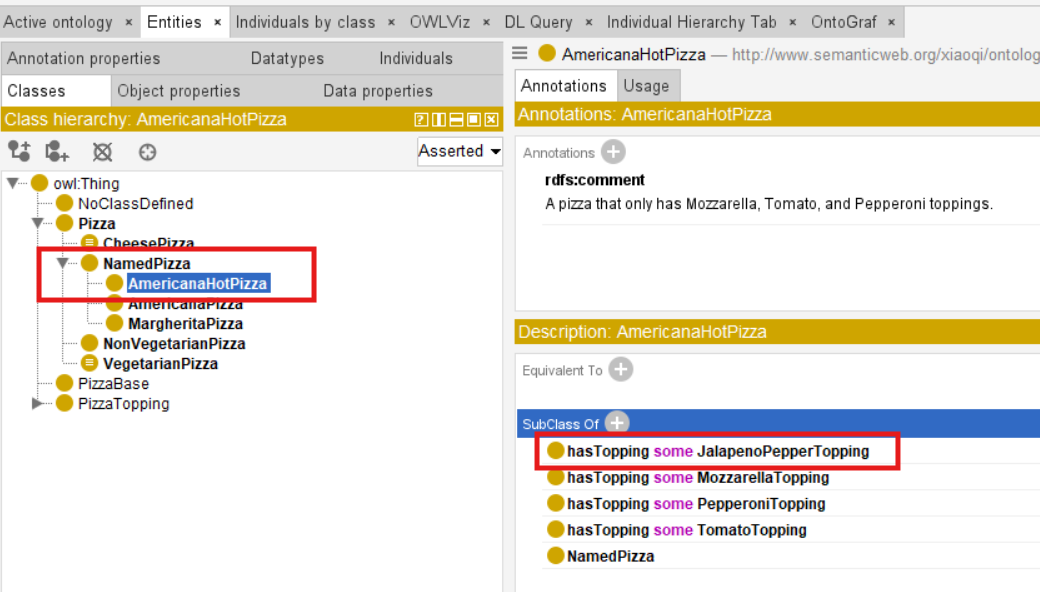
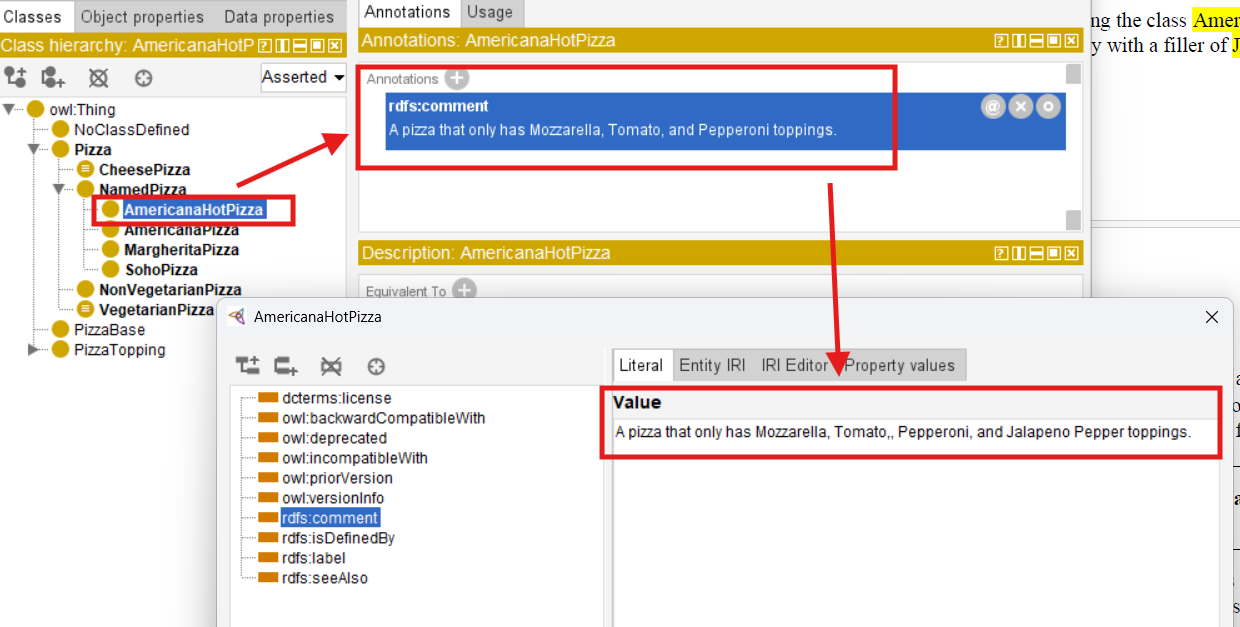
Add Exercise 17 demo in ch20

diff --git a/ebook/publish/img/allbooks.py b/ebook/publish/img/allbooks.py
@@ -1,0 +1,174 @@
+import math
+from PIL import Image, ImageDraw, ImageFont
+
+def lighten_color(hex_color, factor=0.5):
+    r = int(int(hex_color[1:3], 16) + (255 - int(hex_color[1:3], 16)) * factor)
+    g = int(int(hex_color[3:5], 16) + (255 - int(hex_color[3:5], 16)) * factor)
+    b = int(int(hex_color[5:7], 16) + (255 - int(hex_color[5:7], 16)) * factor)
+    return (r, g, b)
+
+def draw_pizza_slice(draw, cx, cy, size, slice_color, crust_color, bg_color_hex):
+    bg_color = tuple(int(bg_color_hex[i:i+2], 16) for i in (1, 3, 5))
+
+    angle_span = 120
+    angle_start = -90 - angle_span // 2   # -150
+    angle_end   = -90 + angle_span // 2   # -30
+
+    # Slice body polygon
+    arc_points = []
+    r = size
+    steps = 50
+    for i in range(steps + 1):
+        angle = math.radians(angle_start + (angle_end - angle_start) * i / steps)
+        arc_points.append((cx + r * math.cos(angle), cy + r * math.sin(angle)))
+    arc_points.append((cx, cy + size * 1.15))  # tip
+    draw.polygon(arc_points, fill=slice_color)
+
+    # Crust arc
+    crust_r = size + 5
+    crust_thickness = 20
+    for i in range(steps + 1):
+        angle = math.radians(angle_start + (angle_end - angle_start) * i / steps)
+        x = cx + crust_r * math.cos(angle)
+        y = cy + crust_r * math.sin(angle)
+        draw.ellipse([x - crust_thickness//2, y - crust_thickness//2,
+                      x + crust_thickness//2, y + crust_thickness//2], fill=crust_color)
+
+    # Crust end bumps
+    for angle_deg in [angle_start, angle_end]:
+        angle = math.radians(angle_deg)
+        x = cx + crust_r * math.cos(angle)
+        y = cy + crust_r * math.sin(angle)
+        bump_r = 14
+        draw.ellipse([x - bump_r, y - bump_r, x + bump_r, y + bump_r], fill=crust_color)
+
+    # Pepperoni (background-colored circles)
+    pepperoni = [
+        (cx - 5,  cy - 10, 24),   # top center
+        (cx - 40, cy + 30, 20),   # left
+        (cx + 35, cy + 25, 22),   # right
+        (cx + 15, cy + 65, 18),   # lower right
+        (cx - 25, cy + 70, 16),   # lower left (bitten)
+    ]
+    for i, (px, py, pr) in enumerate(pepperoni):
+        if i == 4:  # bitten
+            draw.ellipse([px - pr, py - pr, px + pr, py + pr], fill=bg_color)
+            bite_r = int(pr * 0.6)
+            bite_x = px - int(pr * 0.35)
+            bite_y = py + int(pr * 0.3)
+            draw.ellipse([bite_x - bite_r, bite_y - bite_r,
+                          bite_x + bite_r, bite_y + bite_r], fill=slice_color)
+        else:
+            draw.ellipse([px - pr, py - pr, px + pr, py + pr], fill=bg_color)
+
+def create_single_cover(vol_num, bg_hex, accent_hex, accent_light_hex, subtitle_text):
+    W, H = 1600, 2560
+    bg_color = tuple(int(bg_hex[i:i+2], 16) for i in (1, 3, 5))
+    accent_color = tuple(int(accent_hex[i:i+2], 16) for i in (1, 3, 5))
+    accent_light = tuple(int(accent_light_hex[i:i+2], 16) for i in (1, 3, 5))
+    
+    img = Image.new("RGB", (W, H), bg_color)
+    draw = ImageDraw.Draw(img)
+    
+    # 1. Frame border (50% opacity approximation by blending with bg)
+    border_color = accent_color # simplified for solid draw or RGBA if needed
+    draw.rectangle([45, 45, 1555, 2515], outline=border_color, width=2)
+    
+    # Fonts (Fallback to default or system TTF if available)
+    try:
+        font_eyebrow = ImageFont.truetype("DejaVuSans.ttf", 34)
+        font_title = ImageFont.truetype("DejaVuSerif-Bold.ttf", 112)
+        font_sub = ImageFont.truetype("DejaVuSans-Oblique.ttf", 54)
+        font_vol = ImageFont.truetype("DejaVuSans-Bold.ttf", 74)
+        font_body = ImageFont.truetype("DejaVuSans.ttf", 46)
+        font_author = ImageFont.truetype("DejaVuSans-Bold.ttf", 50)
+    except:
+        font_eyebrow = font_title = font_sub = font_vol = font_body = font_author = ImageFont.load_default()
+
+    # 2. Eyebrow text
+    draw.text((W/2, 85), "From Semantic Foundations to", fill=accent_light, anchor="mt", font=font_eyebrow)
+    draw.text((W/2, 129), "Executable Knowledge Architecture (EKA)", fill=accent_light, anchor="mt", font=font_eyebrow)
+    
+    # 3. Pizza Slice Logo
+    crust_color = lighten_color(accent_hex, 0.5)
+    draw_pizza_slice(draw, cx=800, cy=460, size=185, slice_color=accent_color, crust_color=crust_color, bg_color_hex=bg_hex)
+    
+    # 4. Main Title
+    draw.text((W/2, 920), "Mastering Ontology", fill="#FFFFFF", anchor="mt", font=font_title)
+    draw.text((W/2, 1040), "Engineering", fill="#FFFFFF", anchor="mt", font=font_title)
+    
+    # 5. Subtitle
+    draw.text((W/2, 1180), "with Protégé and Pizza.owl", fill=accent_color, anchor="mt", font=font_sub)
+    
+    # 6. Horizontal Divider
+    draw.line([(600, 1260), (1000, 1260)], fill=accent_color, width=3)
+    
+    # 7. Volume Label
+    draw.text((W/2, 1320), f"VOLUME {vol_num}", fill=accent_color, anchor="mt", font=font_vol)
+    
+    # 9. Bottom Subtitle
+    draw.text((W/2, 1750), subtitle_text[0], fill=accent_light, anchor="mt", font=font_body)
+    draw.text((W/2, 1812), subtitle_text[1], fill=accent_light, anchor="mt", font=font_body)
+    
+    # 10. Author Name
+    draw.text((W/2, 2340), "XIAOQI ZHAO", fill="#FFFFFF", anchor="mt", font=font_author)
+    
+    return img
+
+def generate_table_promotion_banner():
+    # Volume metadata based on prompt
+    volumes_data = [
+        (1, "#0B2E28", "#1D9E75", "#9FE1CB", ("Ontology Foundation", "in Protégé")),
+        (2, "#0A2138", "#378ADD", "#B5D4F4", ("Object Properties &", "Relationships")),
+        (3, "#211A3D", "#7F77DD", "#CECBF6", ("Semantic Requirements &", "EKA Governance")),
+        (4, "#2D1F0B", "#E8913A", "#F5D0A0", ("SKDL — Semantic Knowledge", "Development Lifecycle")),
+        (5, "#1E293B", "#38BDF8", "#BAE6FD", ("Data Properties, Custom UI,", "and Graph Ecosystems")),
+        (6, "#18222A", "#64748B", "#CBD5E1", ("Advanced Reasoning, Constraints,", "and Interdisciplinary Depth")),
+        (7, "#1C0A0A", "#E11D48", "#FDA4AF", ("EKA Practices & The SKDL", "Methodology Package")),
+    ]
+    
+    covers = []
+    for vol_num, bg, accent, accent_light, sub in volumes_data:
+        covers.append(create_single_cover(vol_num, bg, accent, accent_light, sub))
+        
+    # Create a grand promotion banner where all 7 volumes are laid out on a virtual table
+    # Banner dimensions: 7 books side-by-side with padding + wooden table background
+    thumb_w, thumb_h = 320, 512  # Scaled down for banner view
+    margin_x, margin_y = 60, 100
+    spacing = 30
+    
+    banner_w = margin_x * 2 + 7 * thumb_w + 6 * spacing
+    banner_h = thumb_h + margin_y * 2 + 150  # Extra space for title header
+    
+    # Table background (Deep rich wood / studio dark tabletop)
+    banner_img = Image.new("RGB", (banner_w, banner_h), "#111827")
+    draw_banner = ImageDraw.Draw(banner_img)
+    
+    # Add promotional title header
+    try:
+        font_header = ImageFont.truetype("DejaVuSans-Bold.ttf", 44)
+        font_subhead = ImageFont.truetype("DejaVuSans.ttf", 26)
+    except:
+        font_header = font_subhead = ImageFont.load_default()
+        
+    draw_banner.text((banner_w / 2, 40), "MASTERING ONTOLOGY ENGINEERING WITH PROTÉGÉ AND PIZZA.OWL", fill="#FFFFFF", anchor="mt", font=font_header)
+    draw_banner.text((banner_w / 2, 95), "The Complete 7-Volume Executable Knowledge Architecture (EKA) & SKDL Series", fill="#9CA3AF", anchor="mt", font=font_subhead)
+    
+    # Paste each volume cover onto the table
+    start_y = margin_y + 60
+    for i, cover in enumerate(covers):
+        thumb = cover.resize((thumb_w, thumb_h), Image.Resampling.LANCZOS)
+        pos_x = margin_x + i * (thumb_w + spacing)
+        
+        # Draw a soft drop shadow effect behind each book
+        shadow_box = [pos_x - 6, start_y - 6, pos_x + thumb_w + 10, start_y + thumb_h + 10]
+        draw_banner.rectangle(shadow_box, fill="#030712")
+        
+        banner_img.paste(thumb, (pos_x, start_y))
+        
+    # Save final promo picture
+    banner_img.save("complete_7_volumes_promotion_banner.jpg", quality=95)
+    print("Successfully generated 'complete_7_volumes_promotion_banner.jpg' showcasing all 7 volumes on the table!")
+
+if __name__ == "__main__":
+    generate_table_promotion_banner()

diff --git a/ebook/markdown/volume4/ch20.md b/ebook/markdown/volume4/ch20.md
@@ -89,6 +89,9 @@ Table of Contents
   - [20.3.4 Knowledge Reuse versus Knowledge Duplication](#2034-knowledge-reuse-versus-knowledge-duplication)
   - [20.3.5 Looking Beyond the User Interface](#2035-looking-beyond-the-user-interface)
 - [20.4 Exercise 17 -- Practicing Reuse Through Specialization](#204-exercise-17----practicing-reuse-through-specialization)
+  - [20.4.1 Creating `AmericanaHotPizza`](#2041-creating-americanahotpizza)
+  - [20.4.2 Creating `SohoPizza`](#2042-creating-sohopizza)
+  - [20.4.3 The Governance Implication of Cloning](#2043-the-governance-implication-of-cloning)
 - [20.5 Reuse Before Rebuild -- An Engineering Pattern](#205-reuse-before-rebuild----an-engineering-pattern)
   - [20.5.1 The Pattern in Software Engineering](#2051-the-pattern-in-software-engineering)
   - [20.5.2 The Pattern in Enterprise Architecture](#2052-the-pattern-in-enterprise-architecture)
@@ -643,12 +646,96 @@ In the previous section, **Exercise 16** demonstrated the fundamental principle 
 > **Exercise 17: Create `AmericanaHotPizza` and `SohoPizza`**
 >
 > 1. An `AmericanaHotPizza` is almost the same as an `AmericanaPizza` but has Jalapeno peppers on it. Create this by cloning the class `AmericanaPizza` and adding an existential restriction along the `hasTopping` property with a filler of `JalapenoPepperTopping`
+> 2. A `SohoPizza` is almost the same as a `MargheritaPizza` but has additional toppings of olives and parmesan cheese -- create this by cloning `MargheritaPizza` and adding two existential restrictions along the property `hasTopping`, one with a filler of `OliveTopping`, and one with a filler of `ParmesanTopping`.
+
+At first glance, this exercise appears to be a simple repetition of the cloning technique from **Exercise 16**. However, its engineering significance extends beyond mere repetition.
+
+**Exercise 17** demonstrates that
+
+> **reuse is not a one-time activity -- it is a recurring engineering practice**.
+
+Each cloning operation reinforce the principle of "reuse before redesign" while introducing new variations that expand the ontology's coverage of the domain.
+
+### 20.4.1 Creating `AmericanaHotPizza`
+
+The first part of **Exercise 17** asks us to create `AmericanaHotPizza` by cloning `AmericanaPizza` and adding an existential restriction for `JalapenoPepperTopping`.
+
+**Step 1: Clone `AmericanaPizza**
+
+1. Navigate to the `Classes` tab in Protégé.
+2. Select `AmericanaPizza` from the class hierarchy.
+3. Select menu Edit > Duplicate, or right click select Duplicate selected class.
+4. In the dialog that appears, change the name from `AmericanaPizza` to `AmericanaHotPizza`.
+5. Leave all other options as they are and select `OK`.
 
 ![ch20_11_ex17-01](img/ch20_11_ex17-01.png)
 
+**Step 2: Add the distinguishing restriction**
+
+1. Make sure `AmericanaHotPizza` is still selected in the Classes hierarchy.
+2. Click on the Add icon (+) next to the `SubClass Of` field in the Description view.
+3. Select the `Class expression editor` tab.
+4. Enter: `hasTopping some JalapenoPepperTopping`.
+5. Click `OK`.
+
 ![ch20_12_ex17-02](img/ch20_12_ex17-02.png)
 
-![ch20_13_ex17-03](img/ch20_13_ex17-03.png)
+**Step 3: Update documentation (Governance Practice)**
+
+1. In the `Annotations view, edit the `rdfs:comment` for `AmericanaHotPizza`.
+2. Update it to reflect the new definition: "A pizza that has Mozzarella, Tomato, Pepperoni, and Jalapeno Pepper toppings."
+  ![ch20_13_ex17-03](img/ch20_13_ex17-03.png)
+3. Add governance documentation: "Created by cloning from AmericanaPizza. Additional restriction: hasTopping some JalapenoPepperTopping. Source: AmericanaPizza. Date: [current date]"
+   ![ch20_14_ex17-04](img/ch20_14_ex17-04.png)
+
+**Step 4: Synchronize the reasoner**
+
+1. Select menu Reasoner > Synchronize reasoner, or shortcut `Ctrl` + `R`.
+2. Verify that no inconsistencies have been introduced.
+3. Check that the reasoner has correctly classified `AmericanaHotPizza`.
+
+![ch20_15_ex17-05](img/ch20_15_ex17-05.png)
+
+### 20.4.2 Creating `SohoPizza`
+
+The second part of **Exercise 17** asks us to create `SohoPizza` by cloning `MargheritaPizza` and adding two existential restrictions.
+
+**Step 1: Clone `MargheritaPizza**
+
+1. Navigate to the `Classes` tab in Protégé.
+2. Select `MargheritaPizza` from the class hierarchy.
+3. Select Edit > Duplicate selected class.
+4. In the dialog that appears, change the name from `MargheritaPizza` to "SohoPizza`.
+5. Leave all other options as they are and select `OK`.
+
+![ch20_16_ex17-06](img/ch20_16_ex17-06.png)
+
+**Step 2: Add the distinguishing restrictions**
+
+1. Make sure `SohoPizza` is still selected.
+2. Click on the Add icon (+) next to the `SubClass Of` field in the Description view.
+3. Select the `Class expression editor` tab.
+4. Enter: `hasTopping some OliveTopping`.
+5. Click OK.
+6. Repeat above 2-5 to add: `hasTopping some ParmesanTopping`.
+
+![ch20_17_ex17-07](img/ch20_17_ex17-07.png)
+
+**Step 3: Update documentation (Governance Practice)**
+
+1. In the Annotations view, edit the `rdfs:comment` for `SohoPizza`.
+2. Update it to reflect the new definition: "A pizza that has Mozzarella, Tomato, Olive, and Parmesan toppings."
+3. Add governance documentation: "Created by cloning from MargheritaPizza. Additional restrictions: hasTopping some OliveTopping, hasTopping some ParmesanTopping. Source: MargheritaPizza. Date:[current data]."
+
+![ch20_18_ex17-08](img/ch20_18_ex17-08.png)
+
+**Step 4: Synchronize the reasoner (Validation Discipline)**
+
+1. Select Reasoner > Synchronize reasoner.
+2. Verify that no inconsistencies have been introduced.
+3. Check that the reasoner has correctly classified `SohoPizza`.
+
+### 20.4.3 The Governance Implication of Cloning
 
 ## 20.5 Reuse Before Rebuild -- An Engineering Pattern
 
